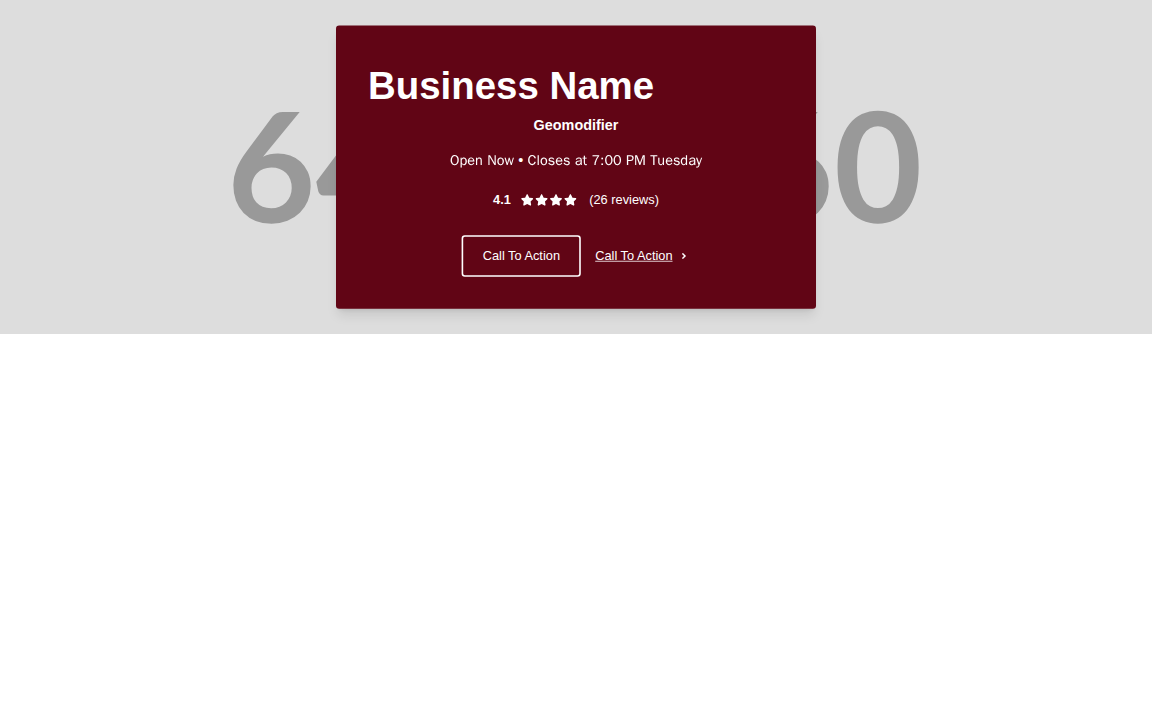
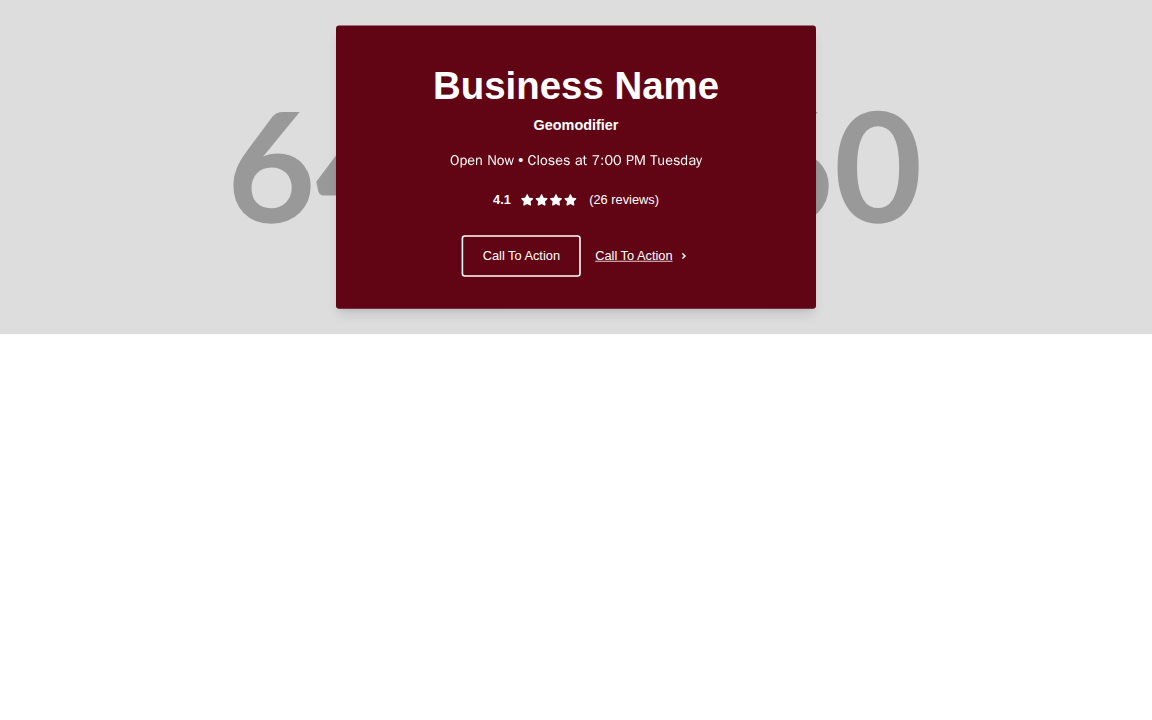
address comments

Changed region(s): [[0.3125, 0.0917, 0.625, 0.1528]]

diff --git a/packages/visual-editor/src/components/pageSections/HeroSection.tsx b/packages/visual-editor/src/components/pageSections/HeroSection.tsx
@@ -18,6 +18,10 @@ import {
   themeManagerCn,
   CTAVariant,
   HeadingLevel,
+  HeadingTextProps,
+  HoursStatusProps,
+  ImageWrapperProps,
+  CTAWrapperProps,
 } from "@yext/visual-editor";
 import { ClassicHero } from "./heroVariants/ClassicHero.js";
 import { CompactHero } from "./heroVariants/CompactHero.js";
@@ -354,7 +358,7 @@ export const HeroSection: ComponentConfig<{ props: HeroSectionProps }> = {
               },
             },
             styles: { level: 3, align: "left" },
-          },
+          } satisfies HeadingTextProps,
         },
       ],
       GeomodifierSlot: [
@@ -372,7 +376,7 @@ export const HeroSection: ComponentConfig<{ props: HeroSectionProps }> = {
               },
             },
             styles: { level: 1, align: "left" },
-          },
+          } satisfies HeadingTextProps,
         },
       ],
       HoursStatusSlot: [
@@ -385,12 +389,8 @@ export const HeroSection: ComponentConfig<{ props: HeroSectionProps }> = {
                 constantValue: {},
               },
             },
-            styles: {
-              startOfWeek: "today",
-              collapseDays: false,
-              showAdditionalHoursText: true,
-            },
-          },
+            styles: {},
+          } satisfies HoursStatusProps,
         },
       ],
       ImageSlot: [
@@ -412,7 +412,7 @@ export const HeroSection: ComponentConfig<{ props: HeroSectionProps }> = {
               aspectRatio: 1.78,
               width: 640,
             },
-          },
+          } satisfies ImageWrapperProps,
         },
       ],
       PrimaryCTASlot: [
@@ -436,7 +436,7 @@ export const HeroSection: ComponentConfig<{ props: HeroSectionProps }> = {
             styles: {
               variant: "primary",
             },
-          },
+          } satisfies CTAWrapperProps,
         },
       ],
       SecondaryCTASlot: [
@@ -460,7 +460,7 @@ export const HeroSection: ComponentConfig<{ props: HeroSectionProps }> = {
             styles: {
               variant: "secondary",
             },
-          },
+          } satisfies CTAWrapperProps,
         },
       ],
     },
@@ -534,6 +534,11 @@ export const HeroSection: ComponentConfig<{ props: HeroSectionProps }> = {
         data = setDeep(
           data,
           "props.slots.GeomodifierSlot[0].props.styles.align",
+          "center"
+        );
+        data = setDeep(
+          data,
+          "props.slots.BusinessNameSlot[0].props.styles.align",
           "center"
         );
         break;

diff --git a/packages/visual-editor/src/components/pageSections/CoreInfoSection.tsx b/packages/visual-editor/src/components/pageSections/CoreInfoSection.tsx
@@ -142,10 +142,13 @@ const CoreInfoSectionWrapper: PuckComponent<CoreInfoSectionProps> = (props) => {
           aria-label={t("informationSection", "Information Section")}
           className="flex flex-col gap-4"
         >
-          <slots.CoreInfoHeadingSlot style={{ height: "auto" }} />
-          <slots.CoreInfoAddressSlot style={{ height: "auto" }} />
-          <slots.CoreInfoPhoneNumbersSlot style={{ height: "auto" }} />
-          <slots.CoreInfoEmailsSlot style={{ height: "auto" }} />
+          <slots.CoreInfoHeadingSlot style={{ height: "auto" }} allow={[]} />
+          <slots.CoreInfoAddressSlot style={{ height: "auto" }} allow={[]} />
+          <slots.CoreInfoPhoneNumbersSlot
+            style={{ height: "auto" }}
+            allow={[]}
+          />
+          <slots.CoreInfoEmailsSlot style={{ height: "auto" }} allow={[]} />
         </section>
       )}
       {showHoursCol && (
@@ -153,8 +156,8 @@ const CoreInfoSectionWrapper: PuckComponent<CoreInfoSectionProps> = (props) => {
           aria-label={t("hoursSection", "Hours Section")}
           className="flex flex-col gap-4"
         >
-          <slots.HoursHeadingSlot style={{ height: "auto" }} />
-          <slots.HoursTableSlot style={{ height: "auto" }} />
+          <slots.HoursHeadingSlot style={{ height: "auto" }} allow={[]} />
+          <slots.HoursTableSlot style={{ height: "auto" }} allow={[]} />
         </section>
       )}
       {showServicesCol && (
@@ -162,8 +165,8 @@ const CoreInfoSectionWrapper: PuckComponent<CoreInfoSectionProps> = (props) => {
           aria-label={t("servicesSection", "Services Section")}
           className="flex flex-col gap-4"
         >
-          <slots.ServicesHeadingSlot style={{ height: "auto" }} />
-          <slots.ServicesListSlot style={{ height: "auto" }} />
+          <slots.ServicesHeadingSlot style={{ height: "auto" }} allow={[]} />
+          <slots.ServicesListSlot style={{ height: "auto" }} allow={[]} />
         </section>
       )}
     </PageSection>

diff --git a/packages/visual-editor/src/components/pageSections/heroVariants/HeroContent.tsx b/packages/visual-editor/src/components/pageSections/heroVariants/HeroContent.tsx
@@ -41,10 +41,10 @@ export const HeroContent: PuckComponent<HeroVariantProps> = ({
           className="flex flex-col gap-y-0"
           aria-label={t("businessInformation", "Business Information")}
         >
-          <slots.BusinessNameSlot style={{ height: "auto" }} />
-          <slots.GeomodifierSlot style={{ height: "auto" }} />
+          <slots.BusinessNameSlot style={{ height: "auto" }} allow={[]} />
+          <slots.GeomodifierSlot style={{ height: "auto" }} allow={[]} />
         </section>
-        <slots.HoursStatusSlot style={{ height: "auto" }} />
+        <slots.HoursStatusSlot style={{ height: "auto" }} allow={[]} />
         {reviewCount > 0 && styles.showAverageReview && (
           <ReviewStars
             averageRating={averageRating}
@@ -72,8 +72,14 @@ export const HeroContent: PuckComponent<HeroVariantProps> = ({
         )}
         aria-label={t("callToActions", "Call to Actions")}
       >
-        <slots.PrimaryCTASlot style={{ height: "auto", width: "auto" }} />
-        <slots.SecondaryCTASlot style={{ height: "auto", width: "auto" }} />
+        <slots.PrimaryCTASlot
+          style={{ height: "auto", width: "auto" }}
+          allow={[]}
+        />
+        <slots.SecondaryCTASlot
+          style={{ height: "auto", width: "auto" }}
+          allow={[]}
+        />
       </div>
     </>
   );

diff --git a/packages/visual-editor/src/components/pageSections/heroVariants/CompactHero.tsx b/packages/visual-editor/src/components/pageSections/heroVariants/CompactHero.tsx
@@ -18,7 +18,7 @@ const CompactHeroImage: PuckComponent<HeroImageProps> = ({
       role="region"
       aria-label={t("heroImage", "Hero Image")}
     >
-      <slots.ImageSlot style={{ height: "100%" }} />
+      <slots.ImageSlot style={{ height: "100%" }} allow={[]} />
     </div>
   ) : puck.isEditing ? (
     <div className="h-20" />
@@ -37,7 +37,7 @@ export const CompactHero: PuckComponent<HeroVariantProps> = (props) => {
     >
       {/* Desktop left image / Mobile top image */}
       <CompactHeroImage
-        id={"left-hero-image" + id}
+        id={id + "-image"}
         className={themeManagerCn(
           styles.mobileImagePosition === "bottom" && "hidden sm:block",
           styles.desktopImagePosition === "right" && "sm:hidden"
@@ -84,7 +84,7 @@ export const CompactHero: PuckComponent<HeroVariantProps> = (props) => {
 
       {/* Desktop right image / Mobile bottom image */}
       <CompactHeroImage
-        id={"right-hero-image" + id}
+        id={id + "-image"}
         className={themeManagerCn(
           styles.mobileImagePosition === "top" && "hidden sm:block",
           styles.desktopImagePosition === "left" && "sm:hidden"

diff --git a/packages/visual-editor/src/components/pageSections/PromoSection.tsx b/packages/visual-editor/src/components/pageSections/PromoSection.tsx
@@ -204,9 +204,9 @@ const PromoMedia = ({
         constantValueEnabled={data.promo.constantValueEnabled}
       >
         {data.media === "video" ? (
-          <slots.VideoSlot style={{ height: "auto" }} />
+          <slots.VideoSlot style={{ height: "auto" }} allow={[]} />
         ) : (
-          <slots.ImageSlot style={{ height: "auto" }} />
+          <slots.ImageSlot style={{ height: "auto" }} allow={[]} />
         )}
       </EntityField>
     </div>
@@ -230,9 +230,9 @@ const PromoWrapper: PuckComponent<PromoSectionProps> = (props) => {
         )}
       />
       <div className="flex flex-col justify-center gap-y-4 md:gap-y-8 pt-4 md:pt-0 w-full break-words">
-        <slots.HeadingSlot style={{ height: "auto" }} />
-        <slots.DescriptionSlot style={{ height: "auto" }} />
-        <slots.CTASlot style={{ height: "auto" }} />
+        <slots.HeadingSlot style={{ height: "auto" }} allow={[]} />
+        <slots.DescriptionSlot style={{ height: "auto" }} allow={[]} />
+        <slots.CTASlot style={{ height: "auto" }} allow={[]} />
       </div>
       {/* Desktop right image */}
       <PromoMedia

diff --git a/packages/visual-editor/src/components/pageSections/heroVariants/ClassicHero.tsx b/packages/visual-editor/src/components/pageSections/heroVariants/ClassicHero.tsx
@@ -14,7 +14,7 @@ const ClassicHeroImage: PuckComponent<HeroImageProps> = (props) => {
       role="region"
       aria-label={t("heroImage", "Hero Image")}
     >
-      <slots.ImageSlot />
+      <slots.ImageSlot allow={[]} />
     </div>
   ) : puck.isEditing ? (
     <div className="h-20" />
@@ -35,7 +35,7 @@ export const ClassicHero: PuckComponent<HeroVariantProps> = (props) => {
     >
       {/* Desktop left image / Mobile top image */}
       <ClassicHeroImage
-        id={"hero-image" + id}
+        id={id + "-image"}
         className={themeManagerCn(
           styles.mobileImagePosition === "bottom" && "hidden sm:block",
           styles.desktopImagePosition === "right" && "sm:hidden"
@@ -54,7 +54,7 @@ export const ClassicHero: PuckComponent<HeroVariantProps> = (props) => {
 
       {/* Desktop right image / Mobile bottom image */}
       <ClassicHeroImage
-        id={"hero-image" + id}
+        id={id + "-image"}
         className={themeManagerCn(
           styles.mobileImagePosition === "top" && "hidden sm:block",
           styles.desktopImagePosition === "left" && "sm:hidden"

diff --git a/packages/visual-editor/src/components/pageSections/EventSection.tsx b/packages/visual-editor/src/components/pageSections/EventSection.tsx
@@ -285,7 +285,7 @@ const EventSectionWrapper: PuckComponent<EventSectionProps> = (props) => {
       background={styles?.backgroundColor}
       className="flex flex-col gap-8"
     >
-      <slots.SectionHeadingSlot />
+      <slots.SectionHeadingSlot allow={[]} />
       {resolvedEvents?.events && (
         <EntityField
           displayName={pt("fields.events", "Events")}

diff --git a/packages/visual-editor/src/components/pageSections/VideoSection.tsx b/packages/visual-editor/src/components/pageSections/VideoSection.tsx
@@ -71,8 +71,8 @@ const VideoSectionComponent: PuckComponent<VideoSectionProps> = (props) => {
 
   return (
     <PageSection background={styles.backgroundColor} className="flex flex-col">
-      <slots.SectionHeadingSlot />
-      <slots.VideoSlot />
+      <slots.SectionHeadingSlot allow={[]} />
+      <slots.VideoSlot allow={[]} />
     </PageSection>
   );
 };
